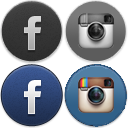
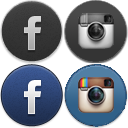
css social links fix

Changed region(s): [[0.5, 0.0, 1.0, 0.5]]

diff --git a/app/assets/stylesheets/custom.css.scss b/app/assets/stylesheets/custom.css.scss
@@ -40,7 +40,7 @@ body{
 	margin: 15px;
 }
 .icon{
-	background-image: image-url("social-links-1.png");
+	background-image: image-url("social-links.png");
 	width:64px;
 	height:64px;
 }
